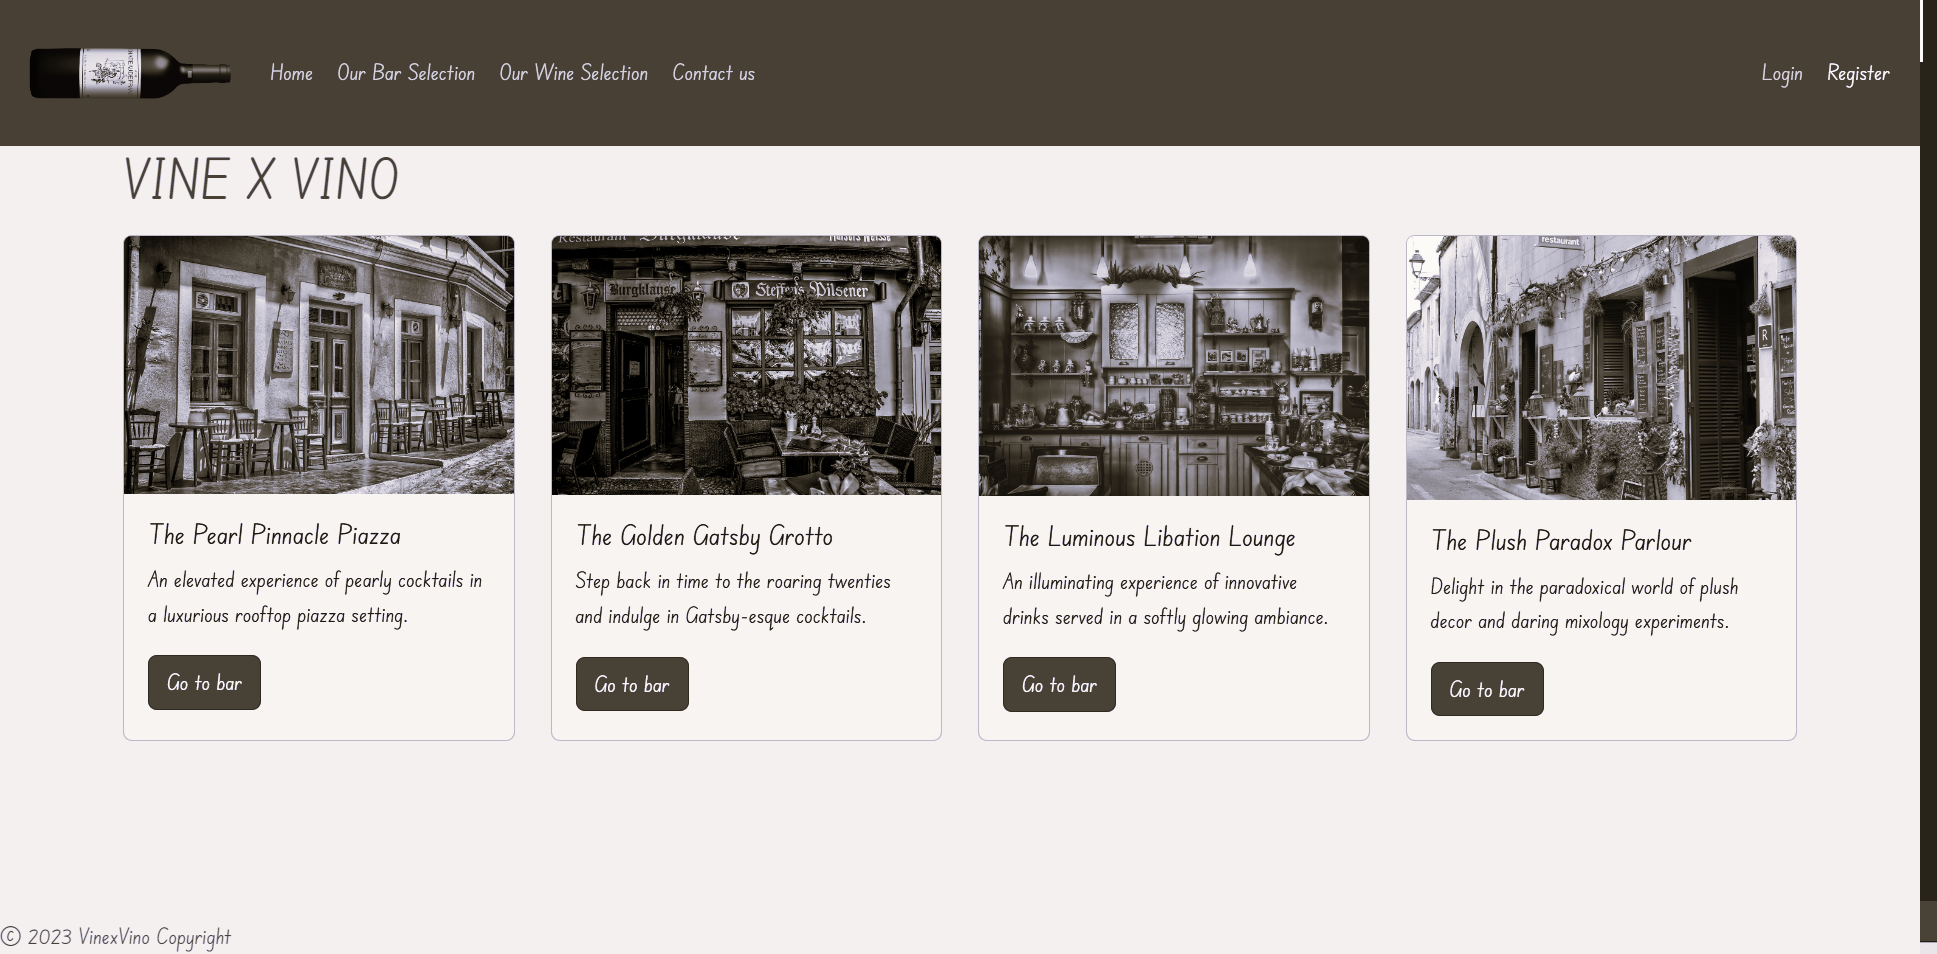
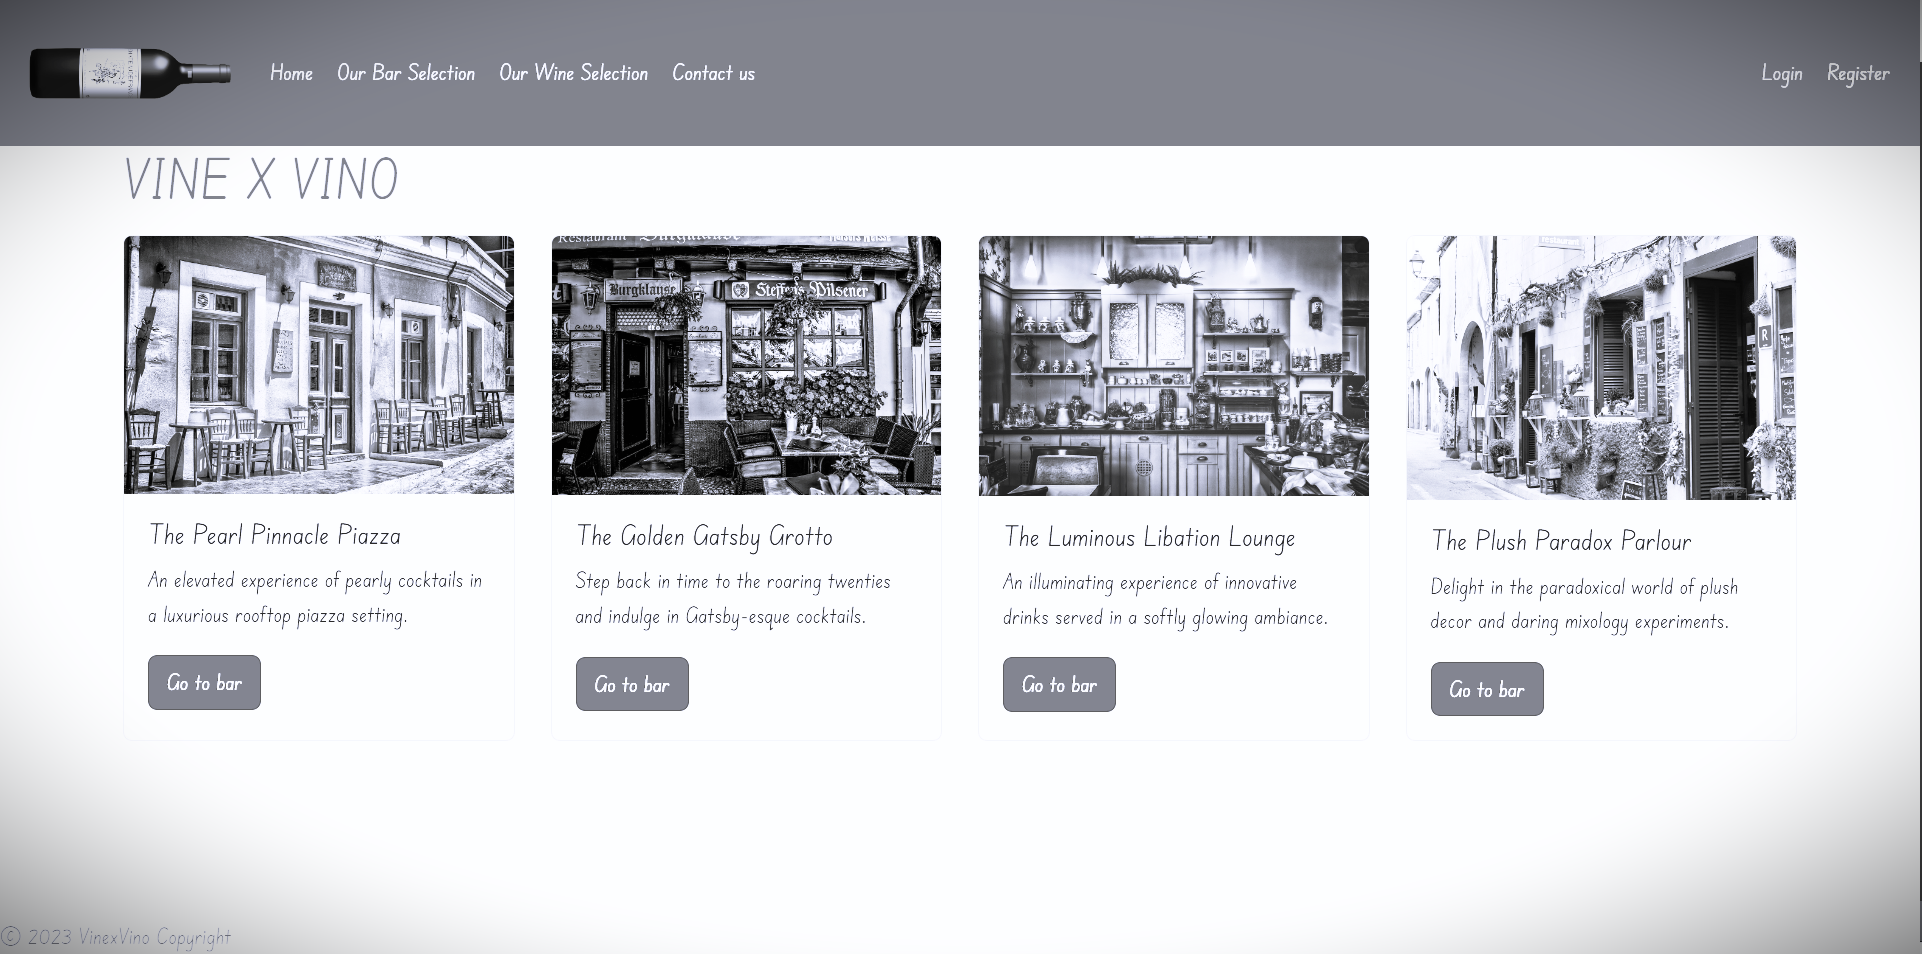
second commit

diff --git a/src/components/Atoms/Icons/svg/Bootstrap.jsx b/src/components/Atoms/Icons/svg/Bootstrap.jsx
@@ -1,0 +1,11 @@
+export default function Bootstrap() {
+    return (
+        <>
+        <svg height="1992" viewBox="0 0 0 0" xmlns="http://www.w3.org/2000/svg"><path d="m106.344 0c-29.214 0-50.831 25.57-49.863 53.3.929 26.641-.278 61.145-8.964 89.283-8.717 28.217-23.449 46.098-47.517 48.393v25.912c24.068 2.3 38.8 20.172 47.516 48.393 8.687 28.138 9.893 62.642 8.964 89.283-.968 27.726 20.649 53.3 49.868 53.3h299.347c29.214 0 50.827-25.57 49.859-53.3-.929-26.641.278-61.145 8.964-89.283 8.717-28.221 23.413-46.1 47.482-48.393v-25.912c-24.068-2.3-38.764-20.172-47.482-48.393-8.687-28.134-9.893-62.642-8.964-89.283.968-27.726-20.645-53.3-49.859-53.3h-299.355zm240.775 251.067c0 38.183-28.481 61.34-75.746 61.34h-80.458a8.678 8.678 0 0 1 -8.678-8.678v-199.593a8.678 8.678 0 0 1 8.678-8.678h80c39.411 0 65.276 21.348 65.276 54.124 0 23.005-17.4 43.6-39.567 47.208v1.2c30.176 3.31 50.495 24.21 50.495 53.077zm-84.519-128.1h-45.876v64.8h38.639c29.87 0 46.34-12.028 46.34-33.527-.003-20.148-14.163-31.273-39.103-31.273zm-45.876 90.511v71.411h47.564c31.1 0 47.573-12.479 47.573-35.931s-16.935-35.484-49.573-35.484h-45.564z" fill="#7952b3" fill-rule="evenodd"/></svg>
+        </>
+    )
+}
+
+//<svg height="1992" viewBox="0 0 512 407.864" width="2500" xmlns="http://www.w3.org/2000/svg"><path d="m106.344 0c-29.214 0-50.831 25.57-49.863 53.3.929 26.641-.278 61.145-8.964 89.283-8.717 28.217-23.449 46.098-47.517 48.393v25.912c24.068 2.3 38.8 20.172 47.516 48.393 8.687 28.138 9.893 62.642 8.964 89.283-.968 27.726 20.649 53.3 49.868 53.3h299.347c29.214 0 50.827-25.57 49.859-53.3-.929-26.641.278-61.145 8.964-89.283 8.717-28.221 23.413-46.1 47.482-48.393v-25.912c-24.068-2.3-38.764-20.172-47.482-48.393-8.687-28.134-9.893-62.642-8.964-89.283.968-27.726-20.645-53.3-49.859-53.3h-299.355zm240.775 251.067c0 38.183-28.481 61.34-75.746 61.34h-80.458a8.678 8.678 0 0 1 -8.678-8.678v-199.593a8.678 8.678 0 0 1 8.678-8.678h80c39.411 0 65.276 21.348 65.276 54.124 0 23.005-17.4 43.6-39.567 47.208v1.2c30.176 3.31 50.495 24.21 50.495 53.077zm-84.519-128.1h-45.876v64.8h38.639c29.87 0 46.34-12.028 46.34-33.527-.003-20.148-14.163-31.273-39.103-31.273zm-45.876 90.511v71.411h47.564c31.1 0 47.573-12.479 47.573-35.931s-16.935-35.484-49.573-35.484h-45.564z" fill="#7952b3" fill-rule="evenodd"/></svg>
+
+//            <svg className="icon" fill="currentColor" xmlns="http://www.w3.org/2000/svg" viewBox="0 0 24 24"><path d="m106.344 0c-29.214 0-50.831 25.57-49.863 53.3.929 26.641-.278 61.145-8.964 89.283-8.717 28.217-23.449 46.098-47.517 48.393v25.912c24.068 2.3 38.8 20.172 47.516 48.393 8.687 28.138 9.893 62.642 8.964 89.283-.968 27.726 20.649 53.3 49.868 53.3h299.347c29.214 0 50.827-25.57 49.859-53.3-.929-26.641.278-61.145 8.964-89.283 8.717-28.221 23.413-46.1 47.482-48.393v-25.912c-24.068-2.3-38.764-20.172-47.482-48.393-8.687-28.134-9.893-62.642-8.964-89.283.968-27.726-20.645-53.3-49.859-53.3h-299.355zm240.775 251.067c0 38.183-28.481 61.34-75.746 61.34h-80.458a8.678 8.678 0 0 1 -8.678-8.678v-199.593a8.678 8.678 0 0 1 8.678-8.678h80c39.411 0 65.276 21.348 65.276 54.124 0 23.005-17.4 43.6-39.567 47.208v1.2c30.176 3.31 50.495 24.21 50.495 53.077zm-84.519-128.1h-45.876v64.8h38.639c29.87 0 46.34-12.028 46.34-33.527-.003-20.148-14.163-31.273-39.103-31.273zm-45.876 90.511v71.411h47.564c31.1 0 47.573-12.479 47.573-35.931s-16.935-35.484-49.573-35.484h-45.564z"/></svg>

diff --git a/src/components/Atoms/Icons/svg/Laravel.jsx b/src/components/Atoms/Icons/svg/Laravel.jsx
@@ -1,0 +1,9 @@
+export default function Laravel() {
+    return (
+        <>
+            <svg className="icon" fill="currentColor" xmlns="http://www.w3.org/2000/svg">
+            <path d="m49.626 11.564a.809.809 0 0 1 .028.209v10.972a.8.8 0 0 1 -.402.694l-9.209 5.302v10.509c0 .286-.152.55-.4.694l-19.223 11.066c-.044.025-.092.041-.14.058-.018.006-.035.017-.054.022a.805.805 0 0 1 -.41 0c-.022-.006-.042-.018-.063-.026-.044-.016-.09-.03-.132-.054l-19.219-11.066a.801.801 0 0 1 -.402-.694v-32.916c0-.072.01-.142.028-.21.006-.023.02-.044.028-.067.015-.042.029-.085.051-.124.015-.026.037-.047.055-.071.023-.032.044-.065.071-.093.023-.023.053-.04.079-.06.029-.024.055-.05.088-.069h.001l9.61-5.533a.802.802 0 0 1 .8 0l9.61 5.533h.002c.032.02.059.045.088.068.026.02.055.038.078.06.028.029.048.062.072.094.017.024.04.045.054.071.023.04.036.082.052.124.008.023.022.044.028.068a.809.809 0 0 1 .028.209v20.559l8.008-4.611v-10.51c0-.07.01-.141.028-.208.007-.024.02-.045.028-.068.016-.042.03-.085.052-.124.015-.026.037-.047.054-.071.024-.032.044-.065.072-.093.023-.023.052-.04.078-.06.03-.024.056-.05.088-.069h.001l9.611-5.533a.801.801 0 0 1 .8 0l9.61 5.533c.034.02.06.045.09.068.025.02.054.038.077.06.028.029.048.062.072.094.018.024.04.045.054.071.023.039.036.082.052.124.009.023.022.044.028.068zm-1.574 10.718v-9.124l-3.363 1.936-4.646 2.675v9.124l8.01-4.611zm-9.61 16.505v-9.13l-4.57 2.61-13.05 7.448v9.216zm-36.84-31.068v31.068l17.618 10.143v-9.214l-9.204-5.209-.003-.002-.004-.002c-.031-.018-.057-.044-.086-.066-.025-.02-.054-.036-.076-.058l-.002-.003c-.026-.025-.044-.056-.066-.084-.02-.027-.044-.05-.06-.078l-.001-.003c-.018-.03-.029-.066-.042-.1-.013-.03-.03-.058-.038-.09v-.001c-.01-.038-.012-.078-.016-.117-.004-.03-.012-.06-.012-.09v-21.483l-4.645-2.676-3.363-1.934zm8.81-5.994-8.007 4.609 8.005 4.609 8.006-4.61-8.006-4.608zm4.164 28.764 4.645-2.674v-20.096l-3.363 1.936-4.646 2.675v20.096zm24.667-23.325-8.006 4.609 8.006 4.609 8.005-4.61zm-.801 10.605-4.646-2.675-3.363-1.936v9.124l4.645 2.674 3.364 1.937zm-18.422 20.561 11.743-6.704 5.87-3.35-8-4.606-9.211 5.303-8.395 4.833z"/>
+            </svg>
+        </>
+    )
+}

diff --git a/src/components/Atoms/Icons/IconMap.jsx b/src/components/Atoms/Icons/IconMap.jsx
@@ -10,14 +10,15 @@ import React from "./svg/React";
 import RightArrow from "./svg/RightArrow";
 import Sass from "./svg/Sass";
 import Tilda from "./svg/Tilda";
-import Wordpress from "./svg/Wordpress";
+import Bootstrap from "./svg/Bootstrap";
+import Laravel from "./svg/Laravel";
 
 export const IconMap = {
     "leave-to": <LeaveTo/>,
     "right-arrow": <RightArrow/>,
     "figma": <Figma/>,
     "tilda": <Tilda/>,
-    "wordpress": <Wordpress/>,
+    "bootsrap": <Bootstrap/>,
     "html": <Html/>,
     "css": <Css/>,
     "javascript": <Javascript/>,
@@ -26,4 +27,5 @@ export const IconMap = {
     "elementor": <Elementor/>,
     "php": <Php/>,    
     "sass": <Sass/>,
+    "laravel": <Laravel/>,
 }

diff --git a/src/views/Home.jsx b/src/views/Home.jsx
@@ -1,7 +1,7 @@
 import { useState, useEffect, useContext } from "react";
 import { projectContext } from "../App";
 import Cover from "../components/Cover/Cover";
-import Filter from "../components/Filter/Filter";
+
 import ProjectCard from "../components/ProjectCard/ProjectCard";
 
 function Home() {
@@ -28,7 +28,7 @@ function Home() {
     <>
       <Cover />
       <div id="projects"></div>
-      <Filter onFilter={handleFilter}/>
+      
       <div className="col3">
         {filteredProjects.map((project) => (
           <ProjectCard

diff --git a/src/globalStyles/_site.scss b/src/globalStyles/_site.scss
@@ -65,7 +65,7 @@
     --unit-16:                         1.6rem;
     --unit-18:                         1.8rem;
     --unit-20:                           2rem;
-    --unit-24:                         2.4rem;
+    --unit-24:                         2.6rem;
     --unit-28:                         2.8rem;
     --unit-32:                         3.2rem;
     --unit-36:                         3.6rem;

diff --git a/src/components/Topbar/TopBar.scss b/src/components/Topbar/TopBar.scss
@@ -19,12 +19,8 @@
     }
 
     &.active {
-        background-color: #f8f9fad4;
+        
         transition: 0.3s ease-in-out;
-    }
-
-    &.topbar--scroll {
-        background-color: #f8f9fad4;
     }
 
 }
